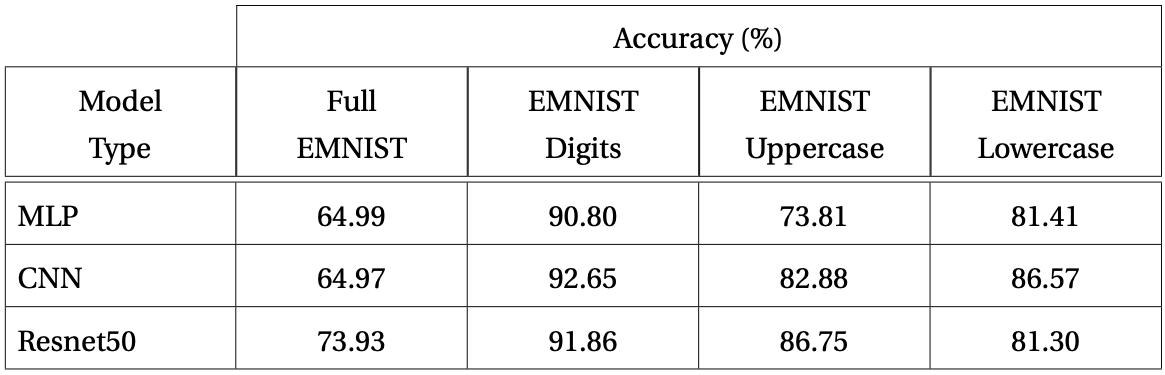
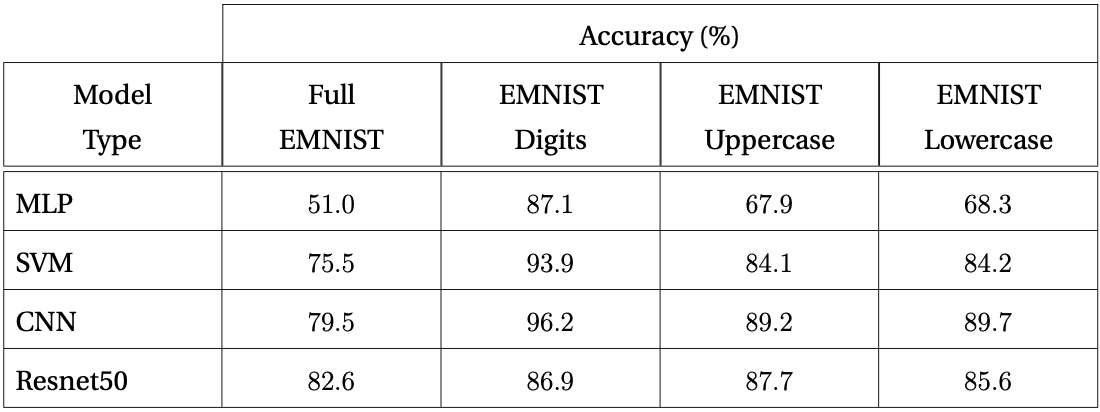
add updated emnist results tables

Changed region(s): [[0.0, 0.0, 1.0, 0.9973]]

diff --git a/index.html b/index.html
@@ -1377,16 +1377,41 @@
 						<h3>EMNIST Aggregate Results</h3>
 						<hr>
 
-						<div class="realbig">
-						Unexplainable<br>
+						<div class="container" >
 
-						<img src="./images/unexpl-emnist.png" height="350">
+							<div class="col" style="border-right:1px solid #000;height:900px">
 
-						<br>Explainable<br>
+								<h5>Unexplainable Benchmark</h5>
 
-						<img src="./images/expl-emnist.png" height="350">
+								<img src="./images/unexpl-emnist.png" height="300">
+
+								<h5>Explainable</h5>
+
+								<img src="./images/expl-emnist.png" height="300">
+
+							</div>
+
+							<div class="col">
+
+								<h5>Explainable + Unexplainable</h5>
+
+								<img src="./images/expl-unexpl-emnist.png" height="300">
+
+								<h5>Explainable + Unexplainable</h5>
+
+								<img src="./images/expl-unexpl-explainabilit-emnist.png" height="300">
+
+							</div>
 
 						</div>
+
+						<aside class="notes">
+							<p>This slide shows the aggregate extended mnist results</p>
+							<p>The top left is a benchmark unexplainable single ML model.</p>
+							<p>Lower left is a PBE architecture with 10 explainable flows. Note the considerable impact to accuracy especially some of the multi-layer perceptron results which are 20 points less</p>
+							<p>The upper right shows the improvement when adding one unexplainable component to the PBE. Numbers approach the benchmark.</p>
+							<p>The lower right shows the impact to explainablility of single unexplainable component to the PBE architecture.</p>
+						</aside>
 
 					</section>
 
